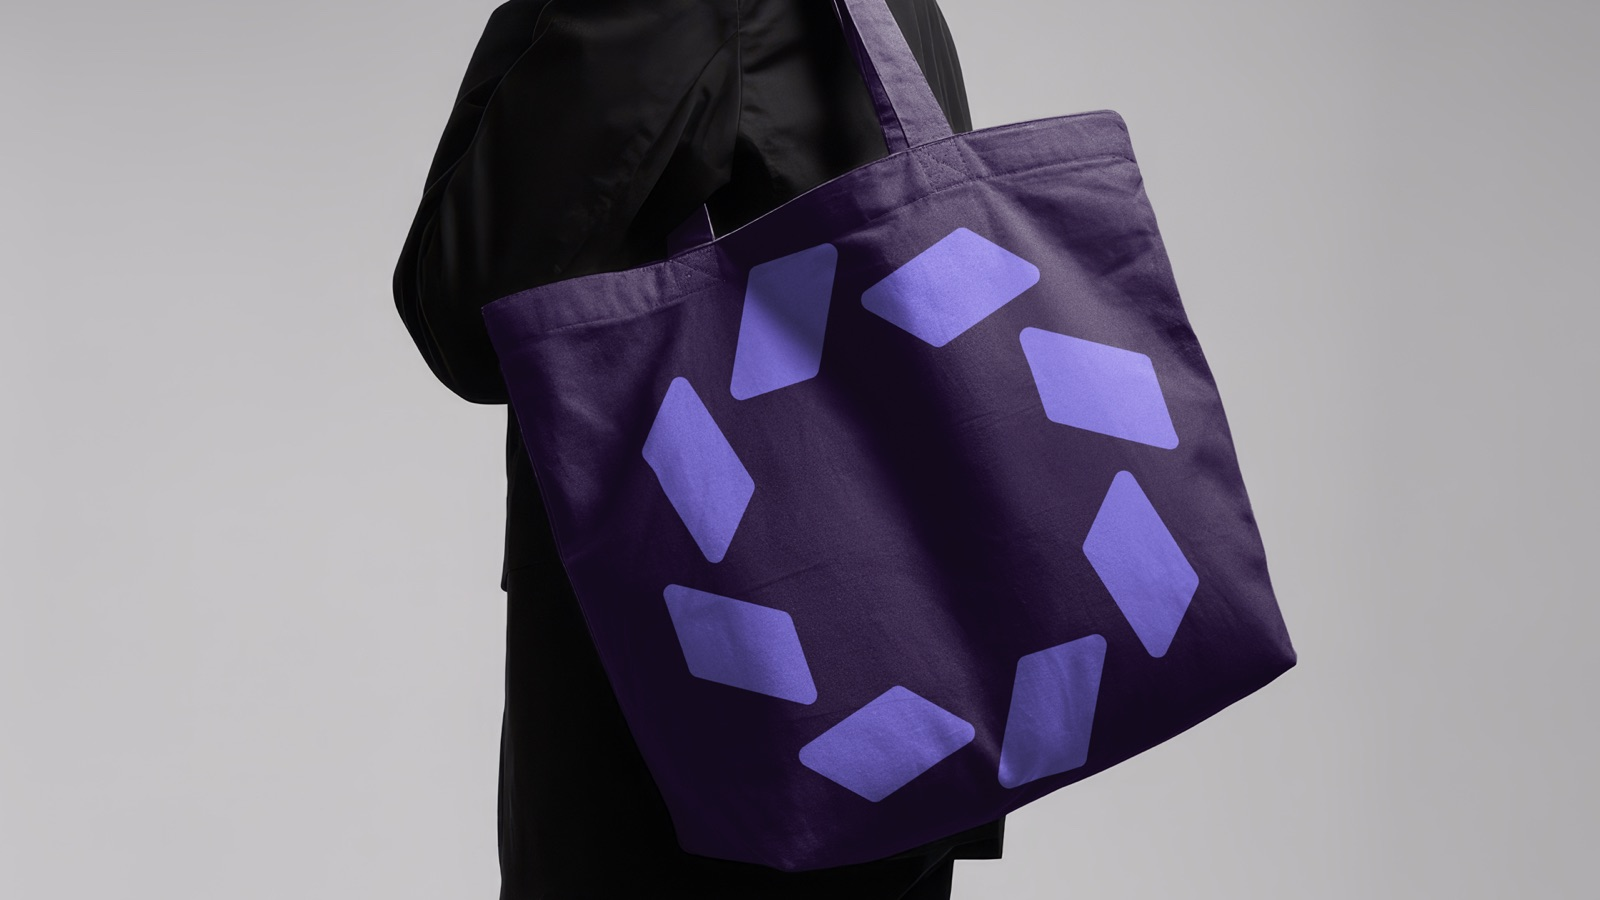
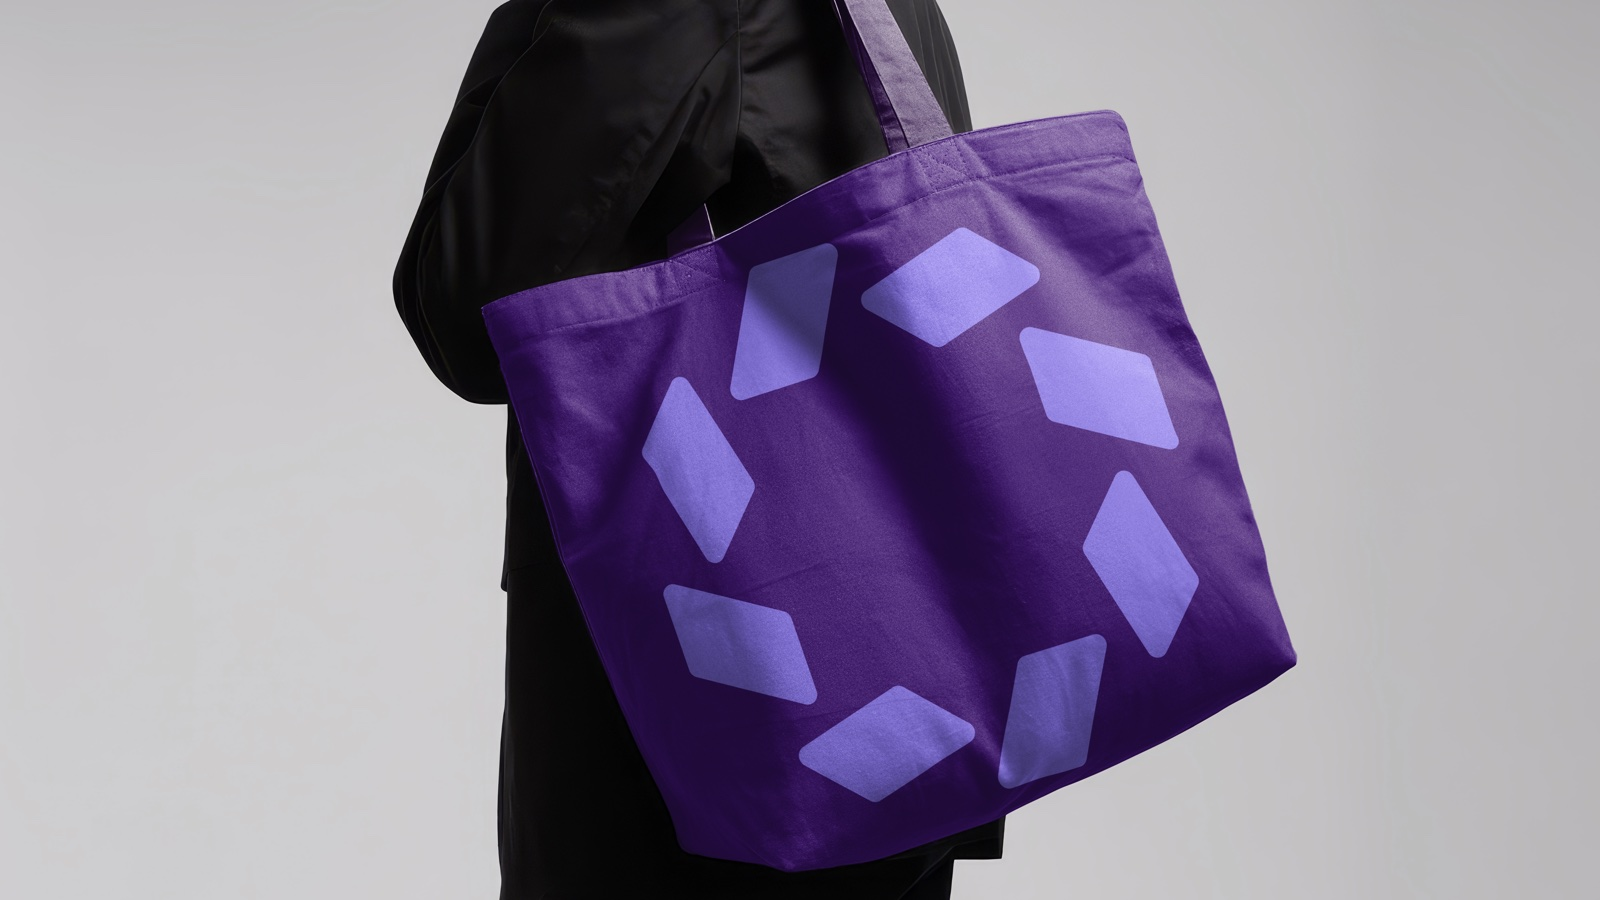
Move 元环智能 to the front of All Projects, commit its gallery/cover
- Reorder workProjects so yuanhuan-intelligent leads "All Projects"
  instead of trailing at the end (Branding tab keeps its own order via
  BRANDING_ORDER, unaffected).
- Commit the project's 6-image gallery and updated cover, which were
  already in place on disk but not yet checked in.

Changed region(s): [[0.2812, 0.1244, 0.8125, 0.9644]]

diff --git a/lib/work-projects.ts b/lib/work-projects.ts
@@ -17,6 +17,21 @@ export type WorkProjectDetail = {
 
 export const workProjects: WorkProjectDetail[] = [
   {
+    slug: "yuanhuan-intelligent",
+    tag: "Branding",
+    year: "2026",
+    title: "品牌设计 | 元环智能",
+    description: "Building the brand identity and visual system for MetaCircle, a corporate analytics platform.",
+    role: "品牌设计师",
+    deliverables: ["品牌 LOGO 与 VI", "品牌视觉系统", "品牌应用物料"],
+    client: "元环智能 MetaCircle",
+    narrative: [
+      "元环智能（MetaCircle）是一个面向企业的数字化分析平台，提供经营诊断与质量管控服务，需要一套能承载「智能」与「循环」双重气质的品牌形象。围绕中文名「元环」，我以虚线菱形围合成环的图形作为核心标识——菱形代表数据切片，环形代表持续运转的分析闭环，简洁的几何语言让品牌在科技感之外多一份精密与秩序感。",
+      "主色选用深紫渐变搭配亮紫点缀，传递专业与前瞻感；标识与品牌图形延展至官网、社交主页、办公文具、水杯与灯箱标识等全场景应用，构建了一套统一且具延展性的品牌视觉系统。",
+    ],
+    gallery: ["1.jpg", "2.jpg", "3.jpg", "4.jpg", "5.jpg", "6.jpg"],
+  },
+  {
     slug: "zhipu-brand-upgrade",
     tag: "Branding",
     year: "2026",
@@ -308,11 +323,4 @@ export type ComingSoonProject = {
   description: string;
 };
 
-export const comingSoonProjects: ComingSoonProject[] = [
-  {
-    slug: "yuanhuan-intelligent",
-    tag: "Branding",
-    title: "品牌设计 | 元环智能",
-    description: "Designing a new brand identity and visual system for Yuanhuan Intelligent.",
-  },
-];
+export const comingSoonProjects: ComingSoonProject[] = [];
